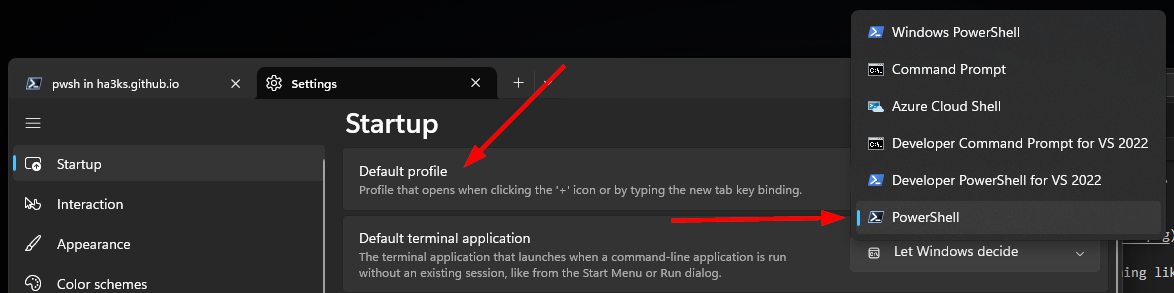
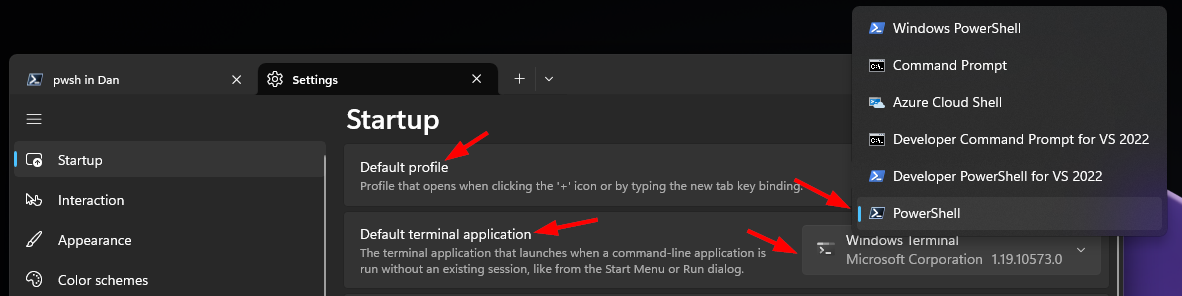
Error
Realised I missed a step so added context and a better screenshot

diff --git a/_posts/2024-03-05-cool-terminals-minimal-code.md b/_posts/2024-03-05-cool-terminals-minimal-code.md
@@ -42,7 +42,7 @@ First we are going to want to get the newset hotness, Powershell from Microsoft.
 
 [![3](\img\blog\cool-terminals-minimal-code\3.png)](\img\blog\cool-terminals-minimal-code\3.png)
 
-After that open Terminal and set Powershell to the default terminal:
+After that open Terminal and set Windows Terminal to the default terminal and Powershell (The New one) to be the default Profile that get's loaded:
 
 [![4](\img\blog\cool-terminals-minimal-code\4.png)](\img\blog\cool-terminals-minimal-code\4.png)
 
